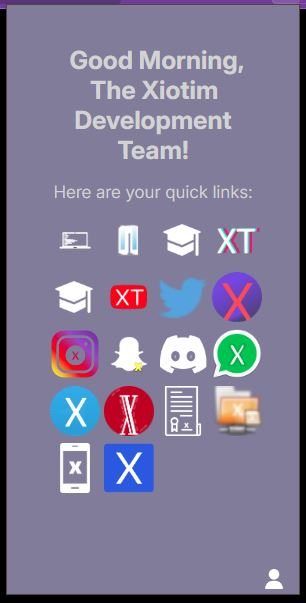
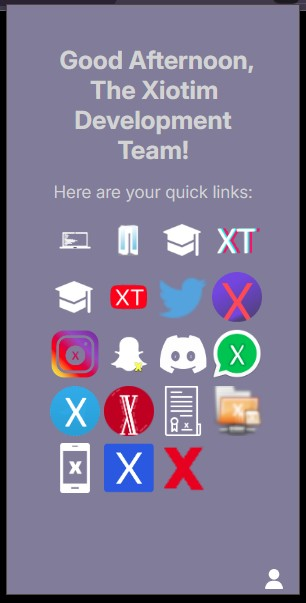
xLinks Update
- I am updating xLinks, because I got bored one weekend, and now we have a new project called: xFlix! A new take on Netflix.

diff --git a/Unpacked/xLinks/index.html b/Unpacked/xLinks/index.html
@@ -172,6 +172,9 @@
 									<th>
 									<a href="https://l-xdt.github.io/linkedx/" target="_blank"><img src="https://imgur.com/AeTqpgb.png"></a>
 									</th>
+                                    <th>
+                                        <a href="https://l-xdt.github.io/xflix/" target="_blank"><img src="https://i.imgur.com/le6WCCt.png"></a>
+                                    </th>
                                     </tr>
         </table>
     </div>
